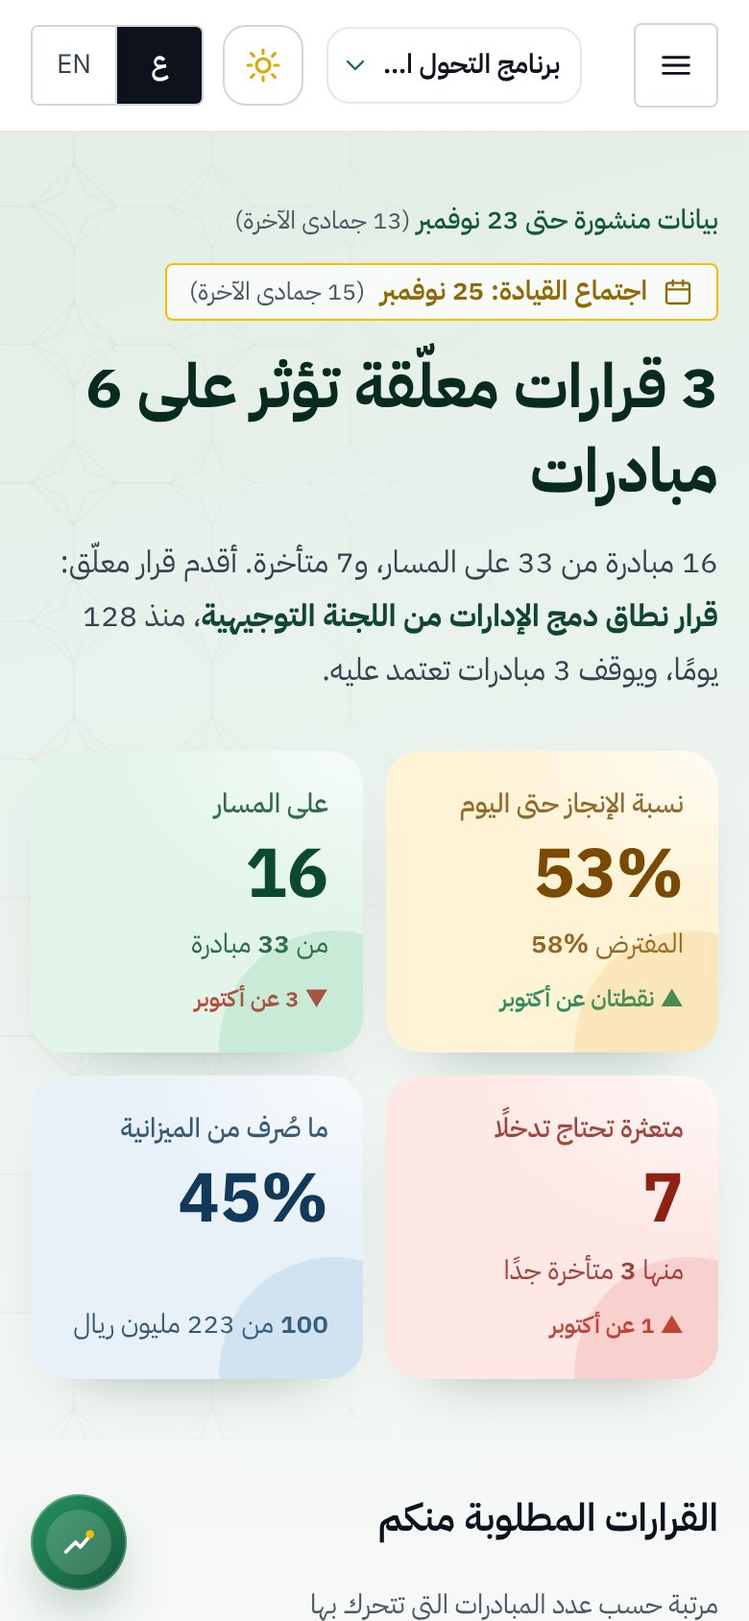
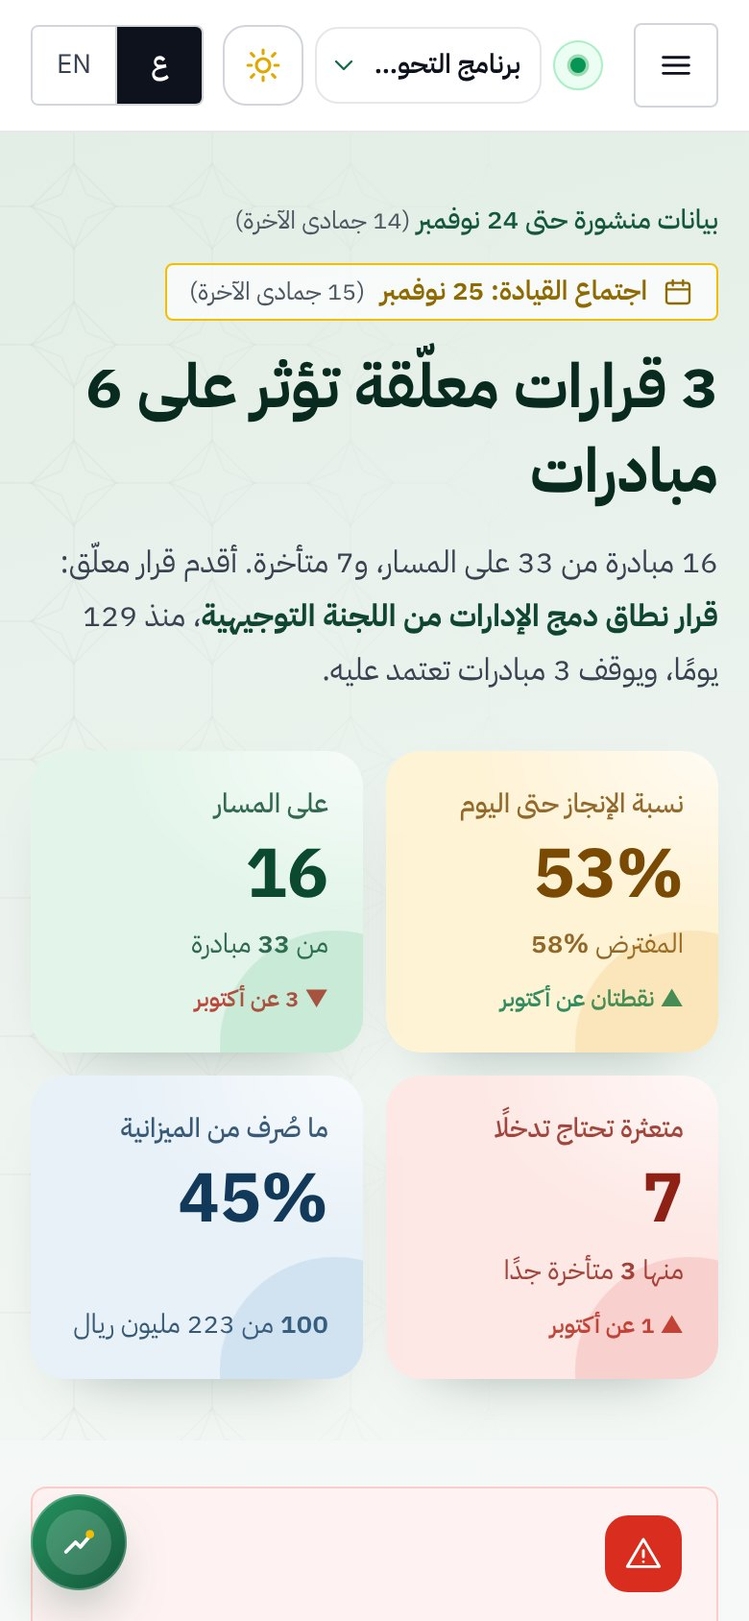
Story: real-time tracking wording and fresh screenshots
Claude-Session: https://claude.ai/code/session_01E7V7Y3g798SiqdfVGDgjmb

diff --git a/vector/story/index.html b/vector/story/index.html
@@ -6,7 +6,7 @@
 <title>The Vector · قصة المنصة</title>
 <meta name="description" content="The Vector: منصة متابعة المبادرات، من تحديث مدير المبادرة إلى قرار القيادة.">
 <meta property="og:title" content="The Vector · قصة المنصة">
-<meta property="og:description" content="من تحديث مدير المبادرة إلى قرار القيادة، في دورة واحدة واضحة كل شهر.">
+<meta property="og:description" content="من تحديث مدير المبادرة إلى قرار القيادة، لحظة بلحظة.">
 <meta property="og:image" content="https://maazmajid.com/vector/story/img/welcome.jpg">
 <meta name="theme-color" content="#0B1F16">
 <link rel="preconnect" href="https://fonts.googleapis.com">
@@ -251,6 +251,8 @@ h2{font-size:clamp(28px,3.6vw,58px);line-height:1.2;font-weight:700;letter-spaci
 .on .tile{animation:popIn .7s var(--spring) both;animation-delay:calc(var(--d)*80ms)}
 .on .tile:nth-child(8){animation:popIn .7s var(--spring) both,ring 3s ease-in-out 2s infinite;animation-delay:calc(var(--d)*80ms),2s;border-color:#F4B2AB}
 .tile:nth-child(8) .ic{color:#D92D20;background:#FDECEA}
+.chip.live{color:#067647}.dotlive{width:9px;height:9px;border-radius:50%;background:#17B26A;box-shadow:0 0 0 0 rgba(23,178,106,.5);animation:livep 1.8s ease-out infinite}
+@keyframes livep{70%,100%{box-shadow:0 0 0 8px rgba(23,178,106,0)}}
 /* chrome */
 .progress{position:fixed;top:0;right:0;left:0;height:3px;z-index:10;background:rgba(127,181,154,.18)}
 .progress i{position:absolute;inset-block:0;right:0;background:linear-gradient(270deg,var(--g),var(--gold));transition:width .8s var(--e)}
@@ -288,7 +290,7 @@ body[data-tone=dark] .brand{color:#CFF2DF}
 <svg class="mark" viewBox="0 0 64 64" aria-hidden="true"><rect x="2" y="2" width="60" height="60" rx="16" class="mk-bg"/><path d="M14 46 L27 33 L35 41 L50 22" class="mk-line"/><circle cx="50" cy="22" r="5.5" class="mk-dot"/></svg>
 <p class="eye r" style="--d:2">منصة متابعة المبادرات</p>
 <h1 class="title"><span style="--d:3">The</span> <span style="--d:4">Vector</span></h1>
-<p class="lede r" style="--d:7">من تحديث مدير المبادرة إلى قرار القيادة، في دورة واحدة واضحة كل شهر.</p>
+<p class="lede r" style="--d:7">من تحديث مدير المبادرة إلى قرار القيادة، لحظة بلحظة.</p>
 <p class="hint r" style="--d:10"><kbd>←</kbd> أو المسافة للتالي</p>
 </div>
 <div class="stage3d float">
@@ -307,7 +309,7 @@ body[data-tone=dark] .brand{color:#CFF2DF}
 </section>
 <section class="slide solve light" data-n="3" aria-label="الحل">
 <div class="head"><p class="eye r" style="--d:0">الحل</p><h2 class="r" style="--d:1">مكان واحد للمتابعة، من التحديث إلى القرار</h2></div>
-<div class="ba"><p class="ba__h"><span>اليوم</span><span></span><span>مع The Vector</span></p><ol><li style="--k:0"><span class="was">ملفات من كل جهة بصيغ مختلفة</span><span class="arrow" aria-hidden="true"></span><span class="now"><svg class="ic sm" viewBox="0 0 24 24" aria-hidden="true"><circle cx="12" cy="12" r="9"/><path d="m8 12.5 3 3 5-6"/></svg>تحديث شهري واحد في المنصة، بنفس الخطوات لكل مبادرة</span></li><li style="--k:1"><span class="was">رقم يصل القيادة بلا مراجعة</span><span class="arrow" aria-hidden="true"></span><span class="now"><svg class="ic sm" viewBox="0 0 24 24" aria-hidden="true"><circle cx="12" cy="12" r="9"/><path d="m8 12.5 3 3 5-6"/></svg>بوابة نشر: مكتب البرنامج يراجع، ومن أدخل التحديث لا يراجعه</span></li><li style="--k:2"><span class="was">القيادة ترى التأخر بعد أسابيع</span><span class="arrow" aria-hidden="true"></span><span class="now"><svg class="ic sm" viewBox="0 0 24 24" aria-hidden="true"><circle cx="12" cy="12" r="9"/><path d="m8 12.5 3 3 5-6"/></svg>خلاصة القيادة تتحدث لحظة النشر، والإنذار المبكر يرى التعثر قبل أن يقع</span></li><li style="--k:3"><span class="was">طلبات القرار تضيع في المحاضر</span><span class="arrow" aria-hidden="true"></span><span class="now"><svg class="ic sm" viewBox="0 0 24 24" aria-hidden="true"><circle cx="12" cy="12" r="9"/><path d="m8 12.5 3 3 5-6"/></svg>طلب القرار جزء من التحديث، ويُدرج في اجتماع القيادة بضغطة</span></li></ol></div>
+<div class="ba"><p class="ba__h"><span>اليوم</span><span></span><span>مع The Vector</span></p><ol><li style="--k:0"><span class="was">ملفات من كل جهة بصيغ مختلفة</span><span class="arrow" aria-hidden="true"></span><span class="now"><svg class="ic sm" viewBox="0 0 24 24" aria-hidden="true"><circle cx="12" cy="12" r="9"/><path d="m8 12.5 3 3 5-6"/></svg>تحديث في المنصة متى ما تغيّر شيء، بنفس الخطوات لكل مبادرة</span></li><li style="--k:1"><span class="was">رقم يصل القيادة بلا مراجعة</span><span class="arrow" aria-hidden="true"></span><span class="now"><svg class="ic sm" viewBox="0 0 24 24" aria-hidden="true"><circle cx="12" cy="12" r="9"/><path d="m8 12.5 3 3 5-6"/></svg>بوابة نشر: مكتب البرنامج يراجع، ومن أدخل التحديث لا يراجعه</span></li><li style="--k:2"><span class="was">القيادة ترى التأخر بعد أسابيع</span><span class="arrow" aria-hidden="true"></span><span class="now"><svg class="ic sm" viewBox="0 0 24 24" aria-hidden="true"><circle cx="12" cy="12" r="9"/><path d="m8 12.5 3 3 5-6"/></svg>خلاصة القيادة تتحدث لحظة النشر، والإنذار المبكر يرى التعثر قبل أن يقع</span></li><li style="--k:3"><span class="was">طلبات القرار تضيع في المحاضر</span><span class="arrow" aria-hidden="true"></span><span class="now"><svg class="ic sm" viewBox="0 0 24 24" aria-hidden="true"><circle cx="12" cy="12" r="9"/><path d="m8 12.5 3 3 5-6"/></svg>طلب القرار جزء من التحديث، ويُدرج في اجتماع القيادة بضغطة</span></li></ol></div>
 </section>
 <section class="slide idea mint" data-n="3" aria-label="الفكرة">
 <div class="head"><p class="eye r" style="--d:0">الفكرة</p><h2 class="r" style="--d:1">ثلاثة أدوار، وبوابة نشر واحدة</h2><p class="lede r" style="--d:2">لا يصل القيادة إلا ما راجعه مكتب البرنامج ونشره، فكل رقم في الطبقة الذكية رقم معتمد.</p></div>
@@ -317,14 +319,14 @@ body[data-tone=dark] .brand{color:#CFF2DF}
 <circle r="7" class="pulse"><animateMotion dur="2.4s" repeatCount="indefinite" begin="1.2s"><mpath href="#w1"/></animateMotion></circle>
 <circle r="7" class="pulse"><animateMotion dur="2.4s" repeatCount="indefinite" begin="2.4s"><mpath href="#w2"/></animateMotion></circle>
 </svg>
-<article class="node n1 pop" style="--d:3"><svg class="ic lg" viewBox="0 0 24 24" aria-hidden="true"><path d="M4 20h4L19 9l-4-4L4 16z"/><path d="m14 6 4 4"/></svg><h3>مدير المبادرة</h3><p>يحدّث مبادرته كل شهر: النسب، ما تم، القادم، والعوائق.</p></article>
+<article class="node n1 pop" style="--d:3"><svg class="ic lg" viewBox="0 0 24 24" aria-hidden="true"><path d="M4 20h4L19 9l-4-4L4 16z"/><path d="m14 6 4 4"/></svg><h3>مدير المبادرة</h3><p>يحدّث مبادرته متى ما تغيّر شيء: النسب، ما تم، القادم، والعوائق.</p></article>
 <article class="node n2 pop gate" style="--d:5"><svg class="ic lg" viewBox="0 0 24 24" aria-hidden="true"><rect x="5" y="4" width="14" height="17" rx="2"/><path d="M9 4V3h6v1"/><path d="m9 13 2 2 4-4"/></svg><h3>مكتب البرنامج</h3><p>يراجع كل تحديث، ثم ينشره أو يُرجعه بملاحظة.</p><span class="gatebadge">بوابة النشر</span></article>
 <article class="node n3 pop" style="--d:7"><svg class="ic lg" viewBox="0 0 24 24" aria-hidden="true"><path d="M6 3h9l4 4v14H6z"/><path d="M14 3v5h5M9 12h7M9 16h5"/></svg><h3>رئيس الجهة</h3><p>يقرأ الخلاصة والتوقعات، ويقرر فيما ينتظره.</p></article>
 </div>
 </section>
 <section class="slide journey light" data-n="4" aria-label="الرحلة">
-<div class="head"><p class="eye r" style="--d:0">الرحلة</p><h2 class="r" style="--d:1">دورة شهرية في ست خطوات</h2></div>
-<div class="track"><div class="rail"><i class="runner"></i></div><ol class="steps"><li class="step" style="--k:0"><span class="dotn">1</span><svg class="ic" viewBox="0 0 24 24" aria-hidden="true"><path d="M3 6a1 1 0 0 1 1-1h5l2 2h9a1 1 0 0 1 1 1v10a1 1 0 0 1-1 1H4a1 1 0 0 1-1-1z"/></svg><b>الإعداد والاعتماد</b><small>مكتب البرنامج يُدخل البرنامج وزميله يعتمد</small></li><li class="step" style="--k:1"><span class="dotn">2</span><svg class="ic" viewBox="0 0 24 24" aria-hidden="true"><rect x="3" y="5" width="18" height="16" rx="2"/><path d="M3 10h18M8 3v4M16 3v4"/></svg><b>فتح الدورة</b><small>بطاقة لكل مبادرة والمخطط يُحسب تلقائيًا</small></li><li class="step" style="--k:2"><span class="dotn">3</span><svg class="ic" viewBox="0 0 24 24" aria-hidden="true"><path d="M4 20h4L19 9l-4-4L4 16z"/><path d="m14 6 4 4"/></svg><b>تحديث المدير</b><small>النسب والخطوات والعوائق وطلب القرار</small></li><li class="step" style="--k:3"><span class="dotn">4</span><svg class="ic" viewBox="0 0 24 24" aria-hidden="true"><rect x="5" y="4" width="14" height="17" rx="2"/><path d="M9 4V3h6v1"/><path d="m9 13 2 2 4-4"/></svg><b>المراجعة</b><small>مكتب البرنامج يدقق قبل النشر</small></li><li class="step" style="--k:4"><span class="dotn">5</span><svg class="ic" viewBox="0 0 24 24" aria-hidden="true"><path d="M21 3 3 10l7 3 3 7z"/><path d="m10 13 4-4"/></svg><b>النشر</b><small>يصل الطبقة الذكية فورًا</small></li><li class="step" style="--k:5"><span class="dotn">6</span><svg class="ic" viewBox="0 0 24 24" aria-hidden="true"><path d="M5 21V4"/><path d="M5 4h11l-2 4 2 4H5"/></svg><b>القيادة تقرر</b><small>القرار يُدرج في اجتماع القيادة</small></li></ol></div>
+<div class="head"><p class="eye r" style="--d:0">الرحلة</p><h2 class="r" style="--d:1">من التحديث إلى القرار، لحظة بلحظة</h2></div>
+<div class="track"><div class="rail"><i class="runner"></i></div><ol class="steps"><li class="step" style="--k:0"><span class="dotn">1</span><svg class="ic" viewBox="0 0 24 24" aria-hidden="true"><path d="M3 6a1 1 0 0 1 1-1h5l2 2h9a1 1 0 0 1 1 1v10a1 1 0 0 1-1 1H4a1 1 0 0 1-1-1z"/></svg><b>الإعداد والاعتماد</b><small>مكتب البرنامج يُدخل البرنامج وزميله يعتمد</small></li><li class="step" style="--k:1"><span class="dotn">2</span><svg class="ic" viewBox="0 0 24 24" aria-hidden="true"><rect x="3" y="5" width="18" height="16" rx="2"/><path d="M3 10h18M8 3v4M16 3v4"/></svg><b>بطاقة لكل مبادرة</b><small>تُنشأ عند الاعتماد، والمخطط يُحسب تلقائيًا</small></li><li class="step" style="--k:2"><span class="dotn">3</span><svg class="ic" viewBox="0 0 24 24" aria-hidden="true"><path d="M4 20h4L19 9l-4-4L4 16z"/><path d="m14 6 4 4"/></svg><b>تحديث المدير</b><small>متى ما تغيّر شيء، مع طلب القرار</small></li><li class="step" style="--k:3"><span class="dotn">4</span><svg class="ic" viewBox="0 0 24 24" aria-hidden="true"><rect x="5" y="4" width="14" height="17" rx="2"/><path d="M9 4V3h6v1"/><path d="m9 13 2 2 4-4"/></svg><b>المراجعة</b><small>مكتب البرنامج يدقق أول بأول</small></li><li class="step" style="--k:4"><span class="dotn">5</span><svg class="ic" viewBox="0 0 24 24" aria-hidden="true"><path d="M21 3 3 10l7 3 3 7z"/><path d="m10 13 4-4"/></svg><b>النشر</b><small>يصل القيادة في اللحظة نفسها</small></li><li class="step" style="--k:5"><span class="dotn">6</span><svg class="ic" viewBox="0 0 24 24" aria-hidden="true"><path d="M5 21V4"/><path d="M5 4h11l-2 4 2 4H5"/></svg><b>القيادة تقرر</b><small>القرار يُدرج في اجتماع القيادة</small></li></ol></div>
 </section>
 <section class="slide shot light" data-n="5" aria-label="دخول واحد، وكل شخص يرى دوره">
 <div class="txt">
@@ -344,8 +346,8 @@ body[data-tone=dark] .brand{color:#CFF2DF}
 <p class="tag r" style="--d:0">الخطوة 1</p>
 <p class="eye r" style="--d:1">مكتب البرنامج</p>
 <h2 class="r" style="--d:2">يومه يبدأ بما يحتاج انتباهه</h2>
-<p class="lede r" style="--d:4">الرئيسية ترتب المهام: ما ينتظر المراجعة، والبطاقات التي لم تبدأ، والقرارات المعلّقة.</p>
-<ul class="pts"><li style="--d:6">حالة الدورة بالأرقام</li><li style="--d:7">تذكير بضغطة للمتأخرين</li><li style="--d:8">كل رقم يفتح ما خلفه</li></ul>
+<p class="lede r" style="--d:4">الرئيسية ترتب المهام: ما ينتظر المراجعة، والبطاقات التي لم تُحدَّث منذ أسبوعين، والقرارات المعلّقة.</p>
+<ul class="pts"><li style="--d:6">أين تقف كل بطاقة الآن</li><li style="--d:7">تذكير بضغطة لمن تأخر تحديثه</li><li style="--d:8">كل رقم يفتح ما خلفه</li></ul>
 </div>
 <div class="stage3d">
 <figure class="frame"><div class="bar"><i></i><i></i><i></i><span>vector.datavital.io</span></div><img src="img/home.jpg" alt="الرئيسية لمكتب البرنامج" loading="lazy"></figure>
@@ -370,33 +372,33 @@ body[data-tone=dark] .brand{color:#CFF2DF}
 <p class="tag r" style="--d:0">الخطوة 2</p>
 <p class="eye r" style="--d:1">الاعتماد</p>
 <h2 class="r" style="--d:2">من يُنشئ البرنامج لا يعتمده</h2>
-<p class="lede r" style="--d:4">يعتمده زميل آخر. عند الاعتماد تُنشأ بطاقة متابعة لكل مبادرة وتُفتح أول دورة.</p>
-<ul class="pts"><li style="--d:6">مبدأ الشخصين داخل النظام</li><li style="--d:7">أول دورة مع أول شهر في البرنامج</li><li style="--d:8">الإعادة للتعديل بملاحظة</li></ul>
+<p class="lede r" style="--d:4">يعتمده زميل آخر. عند الاعتماد تُنشأ بطاقة متابعة لكل مبادرة، ويبدأ التحديث من اللحظة نفسها.</p>
+<ul class="pts"><li style="--d:6">مبدأ الشخصين داخل النظام</li><li style="--d:7">لا انتظار لموعد: التحديث يبدأ فورًا</li><li style="--d:8">الإعادة للتعديل بملاحظة</li></ul>
 </div>
 <div class="stage3d">
 <figure class="frame"><div class="bar"><i></i><i></i><i></i><span>vector.datavital.io</span></div><img src="img/approve.jpg" alt="نافذة اعتماد البرنامج" loading="lazy"></figure>
 <span class="chip c0" style="--d:10"><svg class="ic sm" viewBox="0 0 24 24" aria-hidden="true"><path d="M12 3 4 6v6c0 4.5 3.4 8 8 9 4.6-1 8-4.5 8-9V6z"/><path d="m8.5 12 2.5 2.5 4.5-5"/></svg>مبدأ الشخصين</span>
 </div>
 </section>
-<section class="slide shot light" data-n="9" aria-label="قائمة واحدة بما عليه هذا الشهر">
+<section class="slide shot light" data-n="9" aria-label="يحدّث متى ما صار جديد">
 <div class="txt">
 <p class="tag r" style="--d:0">الخطوة 3</p>
 <p class="eye r" style="--d:1">مدير المبادرة</p>
-<h2 class="r" style="--d:2">قائمة واحدة بما عليه هذا الشهر</h2>
-<p class="lede r" style="--d:4">ما أُعيد له بملاحظة أولًا، ثم ما لم يبدأ. وتحت كل بطاقة آخر أرقام منشورة.</p>
-<ul class="pts"><li style="--d:6">الموعد والأيام المتبقية واضحة</li><li style="--d:7">ملاحظة المكتب على البطاقة نفسها</li><li style="--d:8">مبادراته فقط</li></ul>
+<h2 class="r" style="--d:2">يحدّث متى ما صار جديد</h2>
+<p class="lede r" style="--d:4">ما أُعيد له بملاحظة أولًا، ثم المسودات، ثم ما لم يُحدَّث منذ أسبوعين. وكل مبادرة يقدر يحدّثها في أي وقت.</p>
+<ul class="pts"><li style="--d:6">لا موعد ينتظره</li><li style="--d:7">ملاحظة المكتب على البطاقة نفسها</li><li style="--d:8">تنبيه مبكر على مبادراته</li></ul>
 </div>
 <div class="stage3d">
 <figure class="frame"><div class="bar"><i></i><i></i><i></i><span>vector.datavital.io</span></div><img src="img/tasks.jpg" alt="قائمة مهام المدير" loading="lazy"></figure>
-<span class="chip c0" style="--d:10"><svg class="ic sm" viewBox="0 0 24 24" aria-hidden="true"><rect x="3" y="5" width="18" height="16" rx="2"/><path d="M3 10h18M8 3v4M16 3v4"/></svg>7 أيام متبقية</span>
+<span class="chip c0" style="--d:10"><svg class="ic sm" viewBox="0 0 24 24" aria-hidden="true"><circle cx="12" cy="12" r="9"/><path d="M12 7v5l3 2"/></svg>لم تُحدَّث منذ 14 يومًا</span>
 </div>
 </section>
-<section class="slide duo mint" data-n="10" aria-label="التحديث الشهري">
-<div class="head"><p class="tag r" style="--d:0">الخطوة 3</p><p class="eye r" style="--d:1">التحديث الشهري</p><h2 class="r" style="--d:2">أربع خطوات، وكل رقم يُقرأ في لحظته</h2><p class="lede r" style="--d:3">يكتب المدير الإنجاز فيرى الانحراف والحالة فورًا. وإذا احتاج قرارًا كتبه بصيغة تقرؤها القيادة.</p></div>
+<section class="slide duo mint" data-n="10" aria-label="التحديث">
+<div class="head"><p class="tag r" style="--d:0">الخطوة 3</p><p class="eye r" style="--d:1">التحديث</p><h2 class="r" style="--d:2">أربع خطوات، وكل رقم يُقرأ في لحظته</h2><p class="lede r" style="--d:3">يكتب المدير الإنجاز فيرى الانحراف والحالة فورًا. وإذا احتاج قرارًا كتبه بصيغة تقرؤها القيادة.</p></div>
 <div class="pair">
 <figure class="frame tiltR" style="--d:5"><div class="bar"><i></i><i></i><i></i><span>النسب</span></div><img src="img/figures.jpg" alt="خطوة النسب" loading="lazy"></figure>
 <figure class="frame tiltL" style="--d:8"><div class="bar"><i></i><i></i><i></i><span>القادم والعوائق</span></div><img src="img/blocker.jpg" alt="خطوة العوائق وطلب القرار" loading="lazy"></figure>
-<span class="chip alert" style="--d:12"><svg class="ic sm" viewBox="0 0 24 24" aria-hidden="true"><path d="M12 3 2 20h20z"/><path d="M12 10v4M12 17v.01"/></svg>80% والموعد نهاية الشهر: متأخرة جدًا</span>
+<span class="chip alert" style="--d:12"><svg class="ic sm" viewBox="0 0 24 24" aria-hidden="true"><path d="M12 3 2 20h20z"/><path d="M12 10v4M12 17v.01"/></svg>80% والمخطط 100%: متأخرة جدًا</span>
 </div>
 </section>
 <section class="slide shot light" data-n="11" aria-label="مكتب البرنامج يدقق قبل أن ترى القيادة">
@@ -409,7 +411,7 @@ body[data-tone=dark] .brand{color:#CFF2DF}
 </div>
 <div class="stage3d">
 <figure class="frame"><div class="bar"><i></i><i></i><i></i><span>vector.datavital.io</span></div><img src="img/review.jpg" alt="شاشة المراجعة" loading="lazy"></figure>
-<span class="chip c0" style="--d:10"><svg class="ic sm" viewBox="0 0 24 24" aria-hidden="true"><rect x="5" y="4" width="14" height="17" rx="2"/><path d="M9 4V3h6v1"/><path d="m9 13 2 2 4-4"/></svg>+6 نقاط عن الشهر الماضي</span>
+<span class="chip c0" style="--d:10"><svg class="ic sm" viewBox="0 0 24 24" aria-hidden="true"><rect x="5" y="4" width="14" height="17" rx="2"/><path d="M9 4V3h6v1"/><path d="m9 13 2 2 4-4"/></svg>+6 نقاط عن آخر تحديث</span>
 </div>
 </section>
 <section class="slide gate dark" data-n="12" aria-label="الطبقة الذكية">
@@ -424,7 +426,7 @@ body[data-tone=dark] .brand{color:#CFF2DF}
 <div class="txt">
 <p class="tag r" style="--d:0">الخطوة 6</p><p class="eye r" style="--d:1">رئيس الجهة</p>
 <h2 class="r" style="--d:2">خلاصة القيادة في صفحة واحدة</h2>
-<p class="lede r" style="--d:3">أول جملة تقول ما يحتاج قراره، ثم الأرقام، ثم القرارات وأين التأخر.</p>
+<p class="lede r" style="--d:3">أول جملة تقول ما يحتاج قراره، ثم الأرقام، ثم القرارات وأين التأخر. والصفحة تتحدّث بنفسها لحظة نشر أي تحديث.</p>
 <div class="kpis">
 <div class="kpi good r" style="--d:5"><b data-count="53" data-suf="%">0%</b><span>الإنجاز حتى اليوم</span></div>
 <div class="kpi good r" style="--d:6"><b data-count="16">0</b><span>على المسار</span></div>
@@ -432,7 +434,7 @@ body[data-tone=dark] .brand{color:#CFF2DF}
 <div class="kpi info r" style="--d:8"><b data-count="45" data-suf="%">0%</b><span>المصروف</span></div>
 </div>
 </div>
-<div class="stage3d"><figure class="frame"><div class="bar"><i></i><i></i><i></i><span>vector.datavital.io/intel</span></div><img src="img/leader.jpg" alt="خلاصة القيادة" loading="lazy"></figure></div>
+<div class="stage3d"><figure class="frame"><div class="bar"><i></i><i></i><i></i><span>vector.datavital.io/intel</span></div><img src="img/leader.jpg" alt="خلاصة القيادة" loading="lazy"></figure><span class="chip c0 live" style="--d:10"><i class="dotlive"></i>مباشر · نُشر تحديث قبل لحظات</span></div>
 </section>
 <section class="slide shot mint" data-n="14" aria-label="القرار يُدرج في الاجتماع بضغطة">
 <div class="txt">
@@ -551,12 +553,12 @@ body[data-tone=dark] .brand{color:#CFF2DF}
 </section>
 <section class="slide value light" data-n="v" aria-label="القيمة">
 <div class="head"><p class="eye r" style="--d:0">القيمة</p><h2 class="r" style="--d:1">وقت أقل في الجمع، وقرار في وقته</h2></div>
-<div class="grid3"><article class="card flip val" style="--d:3"><svg class="ic lg" viewBox="0 0 24 24" aria-hidden="true"><path d="M6 3h9l4 4v14H6z"/><path d="M14 3v5h5M9 12h7M9 16h5"/></svg><h3>للقيادة</h3><ul><li>صورة واحدة موثوقة كل شهر، كل رقم فيها مُراجع</li><li>تعرف ما ينتظر قرارها، وكم مبادرة تتوقف عليه</li><li>ترى المبادرة المتعثرة قبل أن تتأخر</li></ul></article><article class="card flip val" style="--d:6"><svg class="ic lg" viewBox="0 0 24 24" aria-hidden="true"><rect x="5" y="4" width="14" height="17" rx="2"/><path d="M9 4V3h6v1"/><path d="m9 13 2 2 4-4"/></svg><h3>لمكتب البرنامج</h3><ul><li>لا جمع يدوي ولا تنسيق ملفات</li><li>يراجع ما تغيّر عن الشهر الماضي فقط</li><li>يذكّر المتأخرين بضغطة، ويعرف من بقي</li></ul></article><article class="card flip val" style="--d:9"><svg class="ic lg" viewBox="0 0 24 24" aria-hidden="true"><path d="M4 20h4L19 9l-4-4L4 16z"/><path d="m14 6 4 4"/></svg><h3>لمدير المبادرة</h3><ul><li>قائمة واحدة بما عليه هذا الشهر</li><li>تحديث بأربع خطوات واضحة</li><li>يعرف أن طلبه وصل القيادة ومتى أُدرج</li></ul></article></div>
+<div class="grid3"><article class="card flip val" style="--d:3"><svg class="ic lg" viewBox="0 0 24 24" aria-hidden="true"><path d="M6 3h9l4 4v14H6z"/><path d="M14 3v5h5M9 12h7M9 16h5"/></svg><h3>للقيادة</h3><ul><li>صورة واحدة موثوقة تتحدّث لحظة النشر، وكل رقم فيها مُراجع</li><li>تعرف ما ينتظر قرارها، وكم مبادرة تتوقف عليه</li><li>ترى المبادرة المتعثرة قبل أن تتأخر</li></ul></article><article class="card flip val" style="--d:6"><svg class="ic lg" viewBox="0 0 24 24" aria-hidden="true"><rect x="5" y="4" width="14" height="17" rx="2"/><path d="M9 4V3h6v1"/><path d="m9 13 2 2 4-4"/></svg><h3>لمكتب البرنامج</h3><ul><li>لا جمع يدوي ولا تنسيق ملفات</li><li>يراجع ما تغيّر عن آخر تحديث فقط</li><li>يذكّر المتأخرين بضغطة، ويعرف من بقي</li></ul></article><article class="card flip val" style="--d:9"><svg class="ic lg" viewBox="0 0 24 24" aria-hidden="true"><path d="M4 20h4L19 9l-4-4L4 16z"/><path d="m14 6 4 4"/></svg><h3>لمدير المبادرة</h3><ul><li>قائمة واحدة بما يحتاج تحديثه الآن</li><li>تحديث بأربع خطوات واضحة</li><li>يعرف أن طلبه وصل القيادة ومتى أُدرج</li></ul></article></div>
 <p class="band r" style="--d:13"><svg class="ic sm" viewBox="0 0 24 24" aria-hidden="true"><path d="M21 3 3 10l7 3 3 7z"/><path d="m10 13 4-4"/></svg>الأرقام تصل القيادة يوم نشرها، لا بعد أسابيع من جمعها.</p>
 </section>
 <section class="slide offer mint" data-n="o" aria-label="ما يقدمه The Vector">
-<div class="head"><p class="eye r" style="--d:0">ما يقدمه The Vector</p><h2 class="r" style="--d:1">منصة واحدة تغطي الدورة كاملة</h2><p class="lede r" style="--d:2">من إعداد البرنامج إلى قرار القيادة، في مكان واحد.</p></div>
-<ol class="tiles"><li class="tile" style="--d:3"><svg class="ic" viewBox="0 0 24 24" aria-hidden="true"><path d="M3 6a1 1 0 0 1 1-1h5l2 2h9a1 1 0 0 1 1 1v10a1 1 0 0 1-1 1H4a1 1 0 0 1-1-1z"/></svg><b>إعداد البرنامج</b><small>خطوة بخطوة أو من Excel</small></li><li class="tile" style="--d:4"><svg class="ic" viewBox="0 0 24 24" aria-hidden="true"><path d="M12 3 4 6v6c0 4.5 3.4 8 8 9 4.6-1 8-4.5 8-9V6z"/><path d="m8.5 12 2.5 2.5 4.5-5"/></svg><b>الاعتماد</b><small>مبدأ الشخصين</small></li><li class="tile" style="--d:5"><svg class="ic" viewBox="0 0 24 24" aria-hidden="true"><rect x="3" y="5" width="18" height="16" rx="2"/><path d="M3 10h18M8 3v4M16 3v4"/></svg><b>دورات شهرية</b><small>بطاقة لكل مبادرة</small></li><li class="tile" style="--d:6"><svg class="ic" viewBox="0 0 24 24" aria-hidden="true"><path d="M4 20h4L19 9l-4-4L4 16z"/><path d="m14 6 4 4"/></svg><b>التحديث</b><small>النسب والخطوات والعوائق</small></li><li class="tile" style="--d:7"><svg class="ic" viewBox="0 0 24 24" aria-hidden="true"><rect x="5" y="4" width="14" height="17" rx="2"/><path d="M9 4V3h6v1"/><path d="m9 13 2 2 4-4"/></svg><b>المراجعة والنشر</b><small>قبل أن ترى القيادة</small></li><li class="tile" style="--d:8"><svg class="ic" viewBox="0 0 24 24" aria-hidden="true"><path d="M6 3h9l4 4v14H6z"/><path d="M14 3v5h5M9 12h7M9 16h5"/></svg><b>خلاصة القيادة</b><small>والقرارات المطلوبة</small></li><li class="tile" style="--d:9"><svg class="ic" viewBox="0 0 24 24" aria-hidden="true"><path d="M3 17l6-6 4 4 8-8"/><path d="M15 7h6v6"/></svg><b>الملخص التنفيذي</b><small>توقع نهاية السنة</small></li><li class="tile" style="--d:10"><svg class="ic" viewBox="0 0 24 24" aria-hidden="true"><path d="M12 3 2 20h20z"/><path d="M12 10v4M12 17v.01"/></svg><b>الإنذار المبكر</b><small>قبل أن تتأخر</small></li><li class="tile" style="--d:11"><svg class="ic" viewBox="0 0 24 24" aria-hidden="true"><path d="M4 6h10M18 6h2M4 12h4M12 12h8M4 18h12M20 18h0"/><circle cx="16" cy="6" r="2"/><circle cx="10" cy="12" r="2"/><circle cx="18" cy="18" r="2"/></svg><b>محاكاة الميزانية</b><small>ماذا لو خُفّضت؟</small></li><li class="tile" style="--d:12"><svg class="ic" viewBox="0 0 24 24" aria-hidden="true"><path d="M4 5h16v11H9l-5 4z"/><path d="M8 9h8M8 12h5"/></svg><b>المساعد الذكي</b><small>يجاوب بالأرقام ومصدرها</small></li></ol>
+<div class="head"><p class="eye r" style="--d:0">ما يقدمه The Vector</p><h2 class="r" style="--d:1">منصة واحدة من التحديث إلى القرار</h2><p class="lede r" style="--d:2">من إعداد البرنامج إلى قرار القيادة، في مكان واحد.</p></div>
+<ol class="tiles"><li class="tile" style="--d:3"><svg class="ic" viewBox="0 0 24 24" aria-hidden="true"><path d="M3 6a1 1 0 0 1 1-1h5l2 2h9a1 1 0 0 1 1 1v10a1 1 0 0 1-1 1H4a1 1 0 0 1-1-1z"/></svg><b>إعداد البرنامج</b><small>خطوة بخطوة أو من Excel</small></li><li class="tile" style="--d:4"><svg class="ic" viewBox="0 0 24 24" aria-hidden="true"><path d="M12 3 4 6v6c0 4.5 3.4 8 8 9 4.6-1 8-4.5 8-9V6z"/><path d="m8.5 12 2.5 2.5 4.5-5"/></svg><b>الاعتماد</b><small>مبدأ الشخصين</small></li><li class="tile" style="--d:5"><svg class="ic" viewBox="0 0 24 24" aria-hidden="true"><rect x="3" y="5" width="18" height="16" rx="2"/><path d="M3 10h18M8 3v4M16 3v4"/></svg><b>تحديث مستمر</b><small>متى ما تغيّر شيء</small></li><li class="tile" style="--d:6"><svg class="ic" viewBox="0 0 24 24" aria-hidden="true"><path d="M4 20h4L19 9l-4-4L4 16z"/><path d="m14 6 4 4"/></svg><b>التحديث</b><small>النسب والخطوات والعوائق</small></li><li class="tile" style="--d:7"><svg class="ic" viewBox="0 0 24 24" aria-hidden="true"><rect x="5" y="4" width="14" height="17" rx="2"/><path d="M9 4V3h6v1"/><path d="m9 13 2 2 4-4"/></svg><b>المراجعة والنشر</b><small>قبل أن ترى القيادة</small></li><li class="tile" style="--d:8"><svg class="ic" viewBox="0 0 24 24" aria-hidden="true"><path d="M6 3h9l4 4v14H6z"/><path d="M14 3v5h5M9 12h7M9 16h5"/></svg><b>خلاصة القيادة</b><small>والقرارات المطلوبة</small></li><li class="tile" style="--d:9"><svg class="ic" viewBox="0 0 24 24" aria-hidden="true"><path d="M3 17l6-6 4 4 8-8"/><path d="M15 7h6v6"/></svg><b>الملخص التنفيذي</b><small>توقع نهاية السنة</small></li><li class="tile" style="--d:10"><svg class="ic" viewBox="0 0 24 24" aria-hidden="true"><path d="M12 3 2 20h20z"/><path d="M12 10v4M12 17v.01"/></svg><b>الإنذار المبكر</b><small>قبل أن تتأخر</small></li><li class="tile" style="--d:11"><svg class="ic" viewBox="0 0 24 24" aria-hidden="true"><path d="M4 6h10M18 6h2M4 12h4M12 12h8M4 18h12M20 18h0"/><circle cx="16" cy="6" r="2"/><circle cx="10" cy="12" r="2"/><circle cx="18" cy="18" r="2"/></svg><b>محاكاة الميزانية</b><small>ماذا لو خُفّضت؟</small></li><li class="tile" style="--d:12"><svg class="ic" viewBox="0 0 24 24" aria-hidden="true"><path d="M4 5h16v11H9l-5 4z"/><path d="M8 9h8M8 12h5"/></svg><b>المساعد الذكي</b><small>يجاوب بالأرقام ومصدرها</small></li></ol>
 </section>
 <section class="slide cards4 dark" data-n="20" aria-label="الثقة">
 <div class="head"><p class="eye r" style="--d:0">الثقة</p><h2 class="r" style="--d:1">ضوابط مبنية في النظام، لا في التعليمات</h2></div>
@@ -564,7 +566,7 @@ body[data-tone=dark] .brand{color:#CFF2DF}
 </section>
 <section class="slide plan light" data-n="21" aria-label="الخطوات القادمة">
 <div class="head"><p class="eye r" style="--d:0">الخطوات القادمة</p><h2 class="r" style="--d:1">من التجربة إلى التشغيل الرسمي في 31 ديسمبر</h2></div>
-<div class="tl"><div class="tlrail"><i></i></div><ol><li style="--k:0"><span class="when">حتى 30 نوفمبر</span><b>تجربة المنصة</b><small>حسابات للتجربة وبيئة نظيفة لبياناتكم</small></li><li style="--k:1"><span class="when">1 إلى 14 ديسمبر</span><b>التشغيل الذاتي</b><small>فتح الدورات وإدارة المستخدمين والإشعارات بالإيميل</small></li><li style="--k:2"><span class="when">15 إلى 21 ديسمبر</span><b>دائرة القرار</b><small>تسجيل قرار القيادة، وخلاصة الاجتماع PDF، والمرفقات</small></li><li style="--k:3"><span class="when">22 إلى 31 ديسمبر</span><b>دورة ديسمبر</b><small>تشغيل الدورة كاملة معكم، ثم التشغيل الرسمي</small></li></ol></div>
+<div class="tl"><div class="tlrail"><i></i></div><ol><li style="--k:0"><span class="when">حتى 30 نوفمبر</span><b>تجربة المنصة</b><small>حسابات للتجربة وبيئة نظيفة لبياناتكم</small></li><li style="--k:1"><span class="when">1 إلى 14 ديسمبر</span><b>التشغيل الذاتي</b><small>إدارة المستخدمين والإشعارات بالإيميل</small></li><li style="--k:2"><span class="when">15 إلى 21 ديسمبر</span><b>دائرة القرار</b><small>تسجيل قرار القيادة، وخلاصة الاجتماع PDF، والمرفقات</small></li><li style="--k:3"><span class="when">22 إلى 31 ديسمبر</span><b>التشغيل معكم</b><small>متابعة حيّة على مبادراتكم، ثم التشغيل الرسمي</small></li></ol></div>
 </section>
 <section class="slide close dark" data-n="22" aria-label="شكرًا">
 <div class="center">

diff --git a/vector/story/shell.html b/vector/story/shell.html
@@ -6,7 +6,7 @@
 <title>The Vector · قصة المنصة</title>
 <meta name="description" content="The Vector: منصة متابعة المبادرات، من تحديث مدير المبادرة إلى قرار القيادة.">
 <meta property="og:title" content="The Vector · قصة المنصة">
-<meta property="og:description" content="من تحديث مدير المبادرة إلى قرار القيادة، في دورة واحدة واضحة كل شهر.">
+<meta property="og:description" content="من تحديث مدير المبادرة إلى قرار القيادة، لحظة بلحظة.">
 <meta property="og:image" content="https://maazmajid.com/vector/story/img/welcome.jpg">
 <meta name="theme-color" content="#0B1F16">
 <link rel="preconnect" href="https://fonts.googleapis.com">
@@ -251,6 +251,8 @@ h2{font-size:clamp(28px,3.6vw,58px);line-height:1.2;font-weight:700;letter-spaci
 .on .tile{animation:popIn .7s var(--spring) both;animation-delay:calc(var(--d)*80ms)}
 .on .tile:nth-child(8){animation:popIn .7s var(--spring) both,ring 3s ease-in-out 2s infinite;animation-delay:calc(var(--d)*80ms),2s;border-color:#F4B2AB}
 .tile:nth-child(8) .ic{color:#D92D20;background:#FDECEA}
+.chip.live{color:#067647}.dotlive{width:9px;height:9px;border-radius:50%;background:#17B26A;box-shadow:0 0 0 0 rgba(23,178,106,.5);animation:livep 1.8s ease-out infinite}
+@keyframes livep{70%,100%{box-shadow:0 0 0 8px rgba(23,178,106,0)}}
 /* chrome */
 .progress{position:fixed;top:0;right:0;left:0;height:3px;z-index:10;background:rgba(127,181,154,.18)}
 .progress i{position:absolute;inset-block:0;right:0;background:linear-gradient(270deg,var(--g),var(--gold));transition:width .8s var(--e)}
